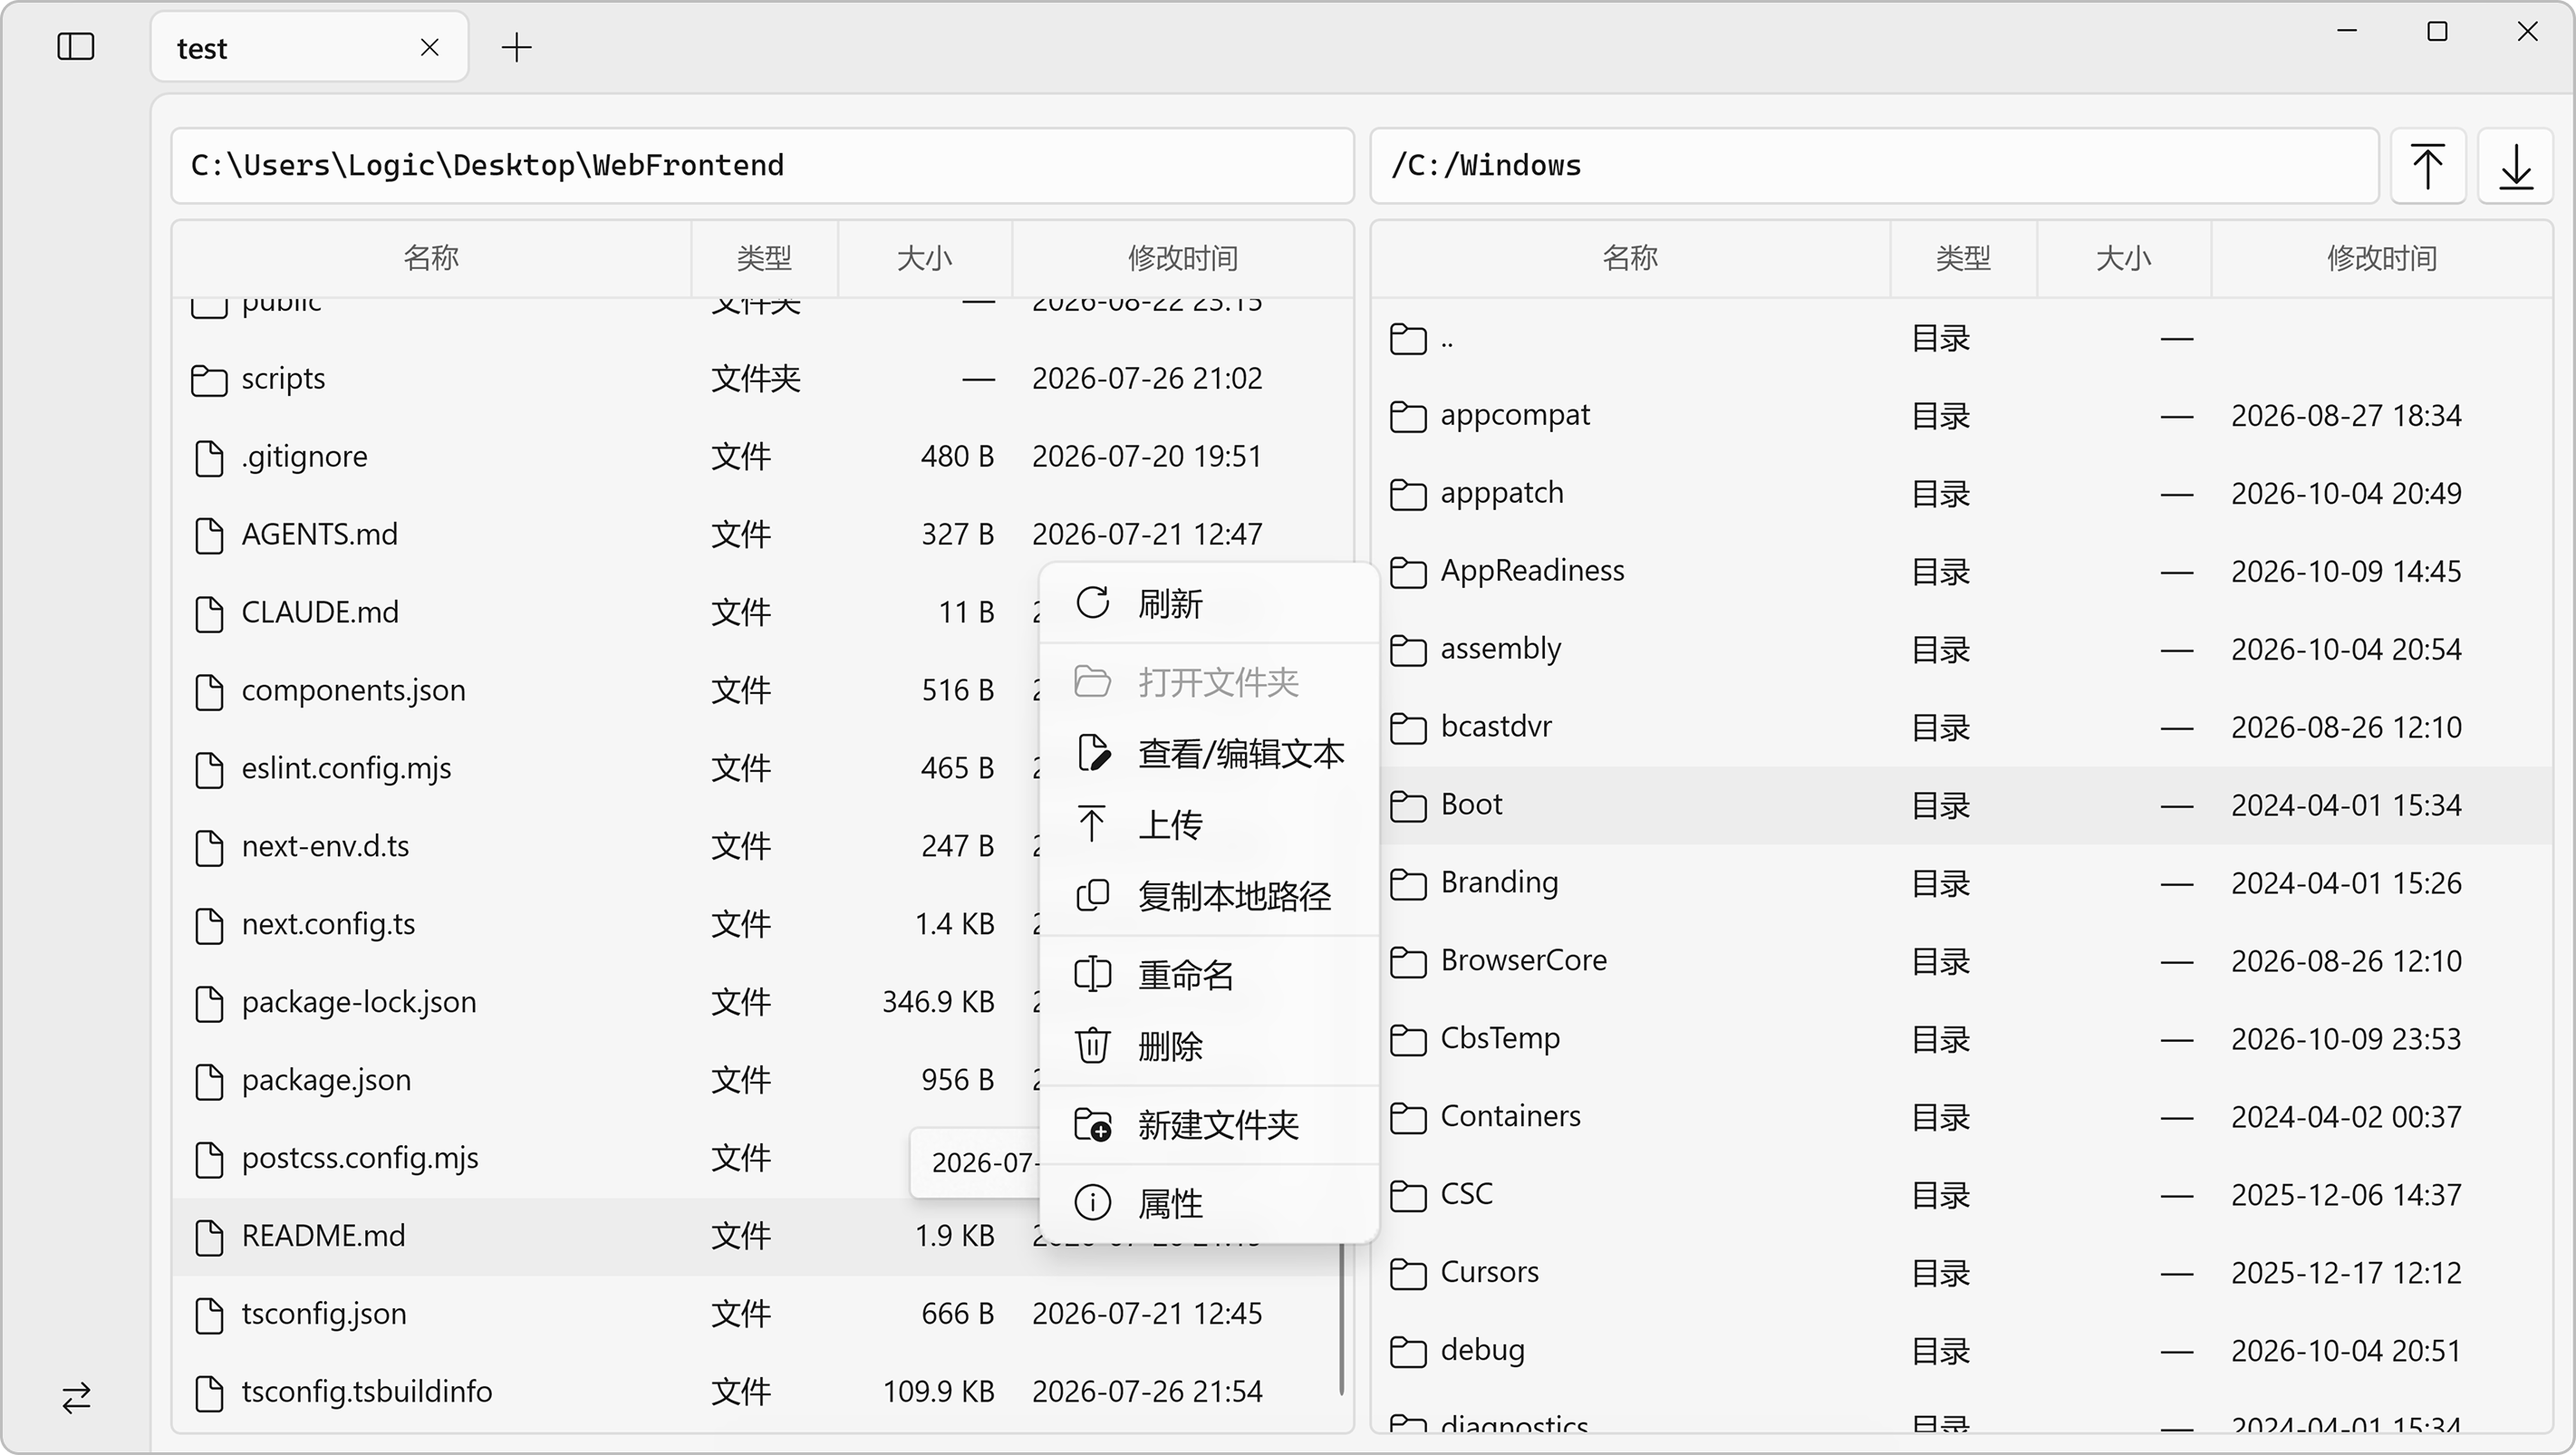
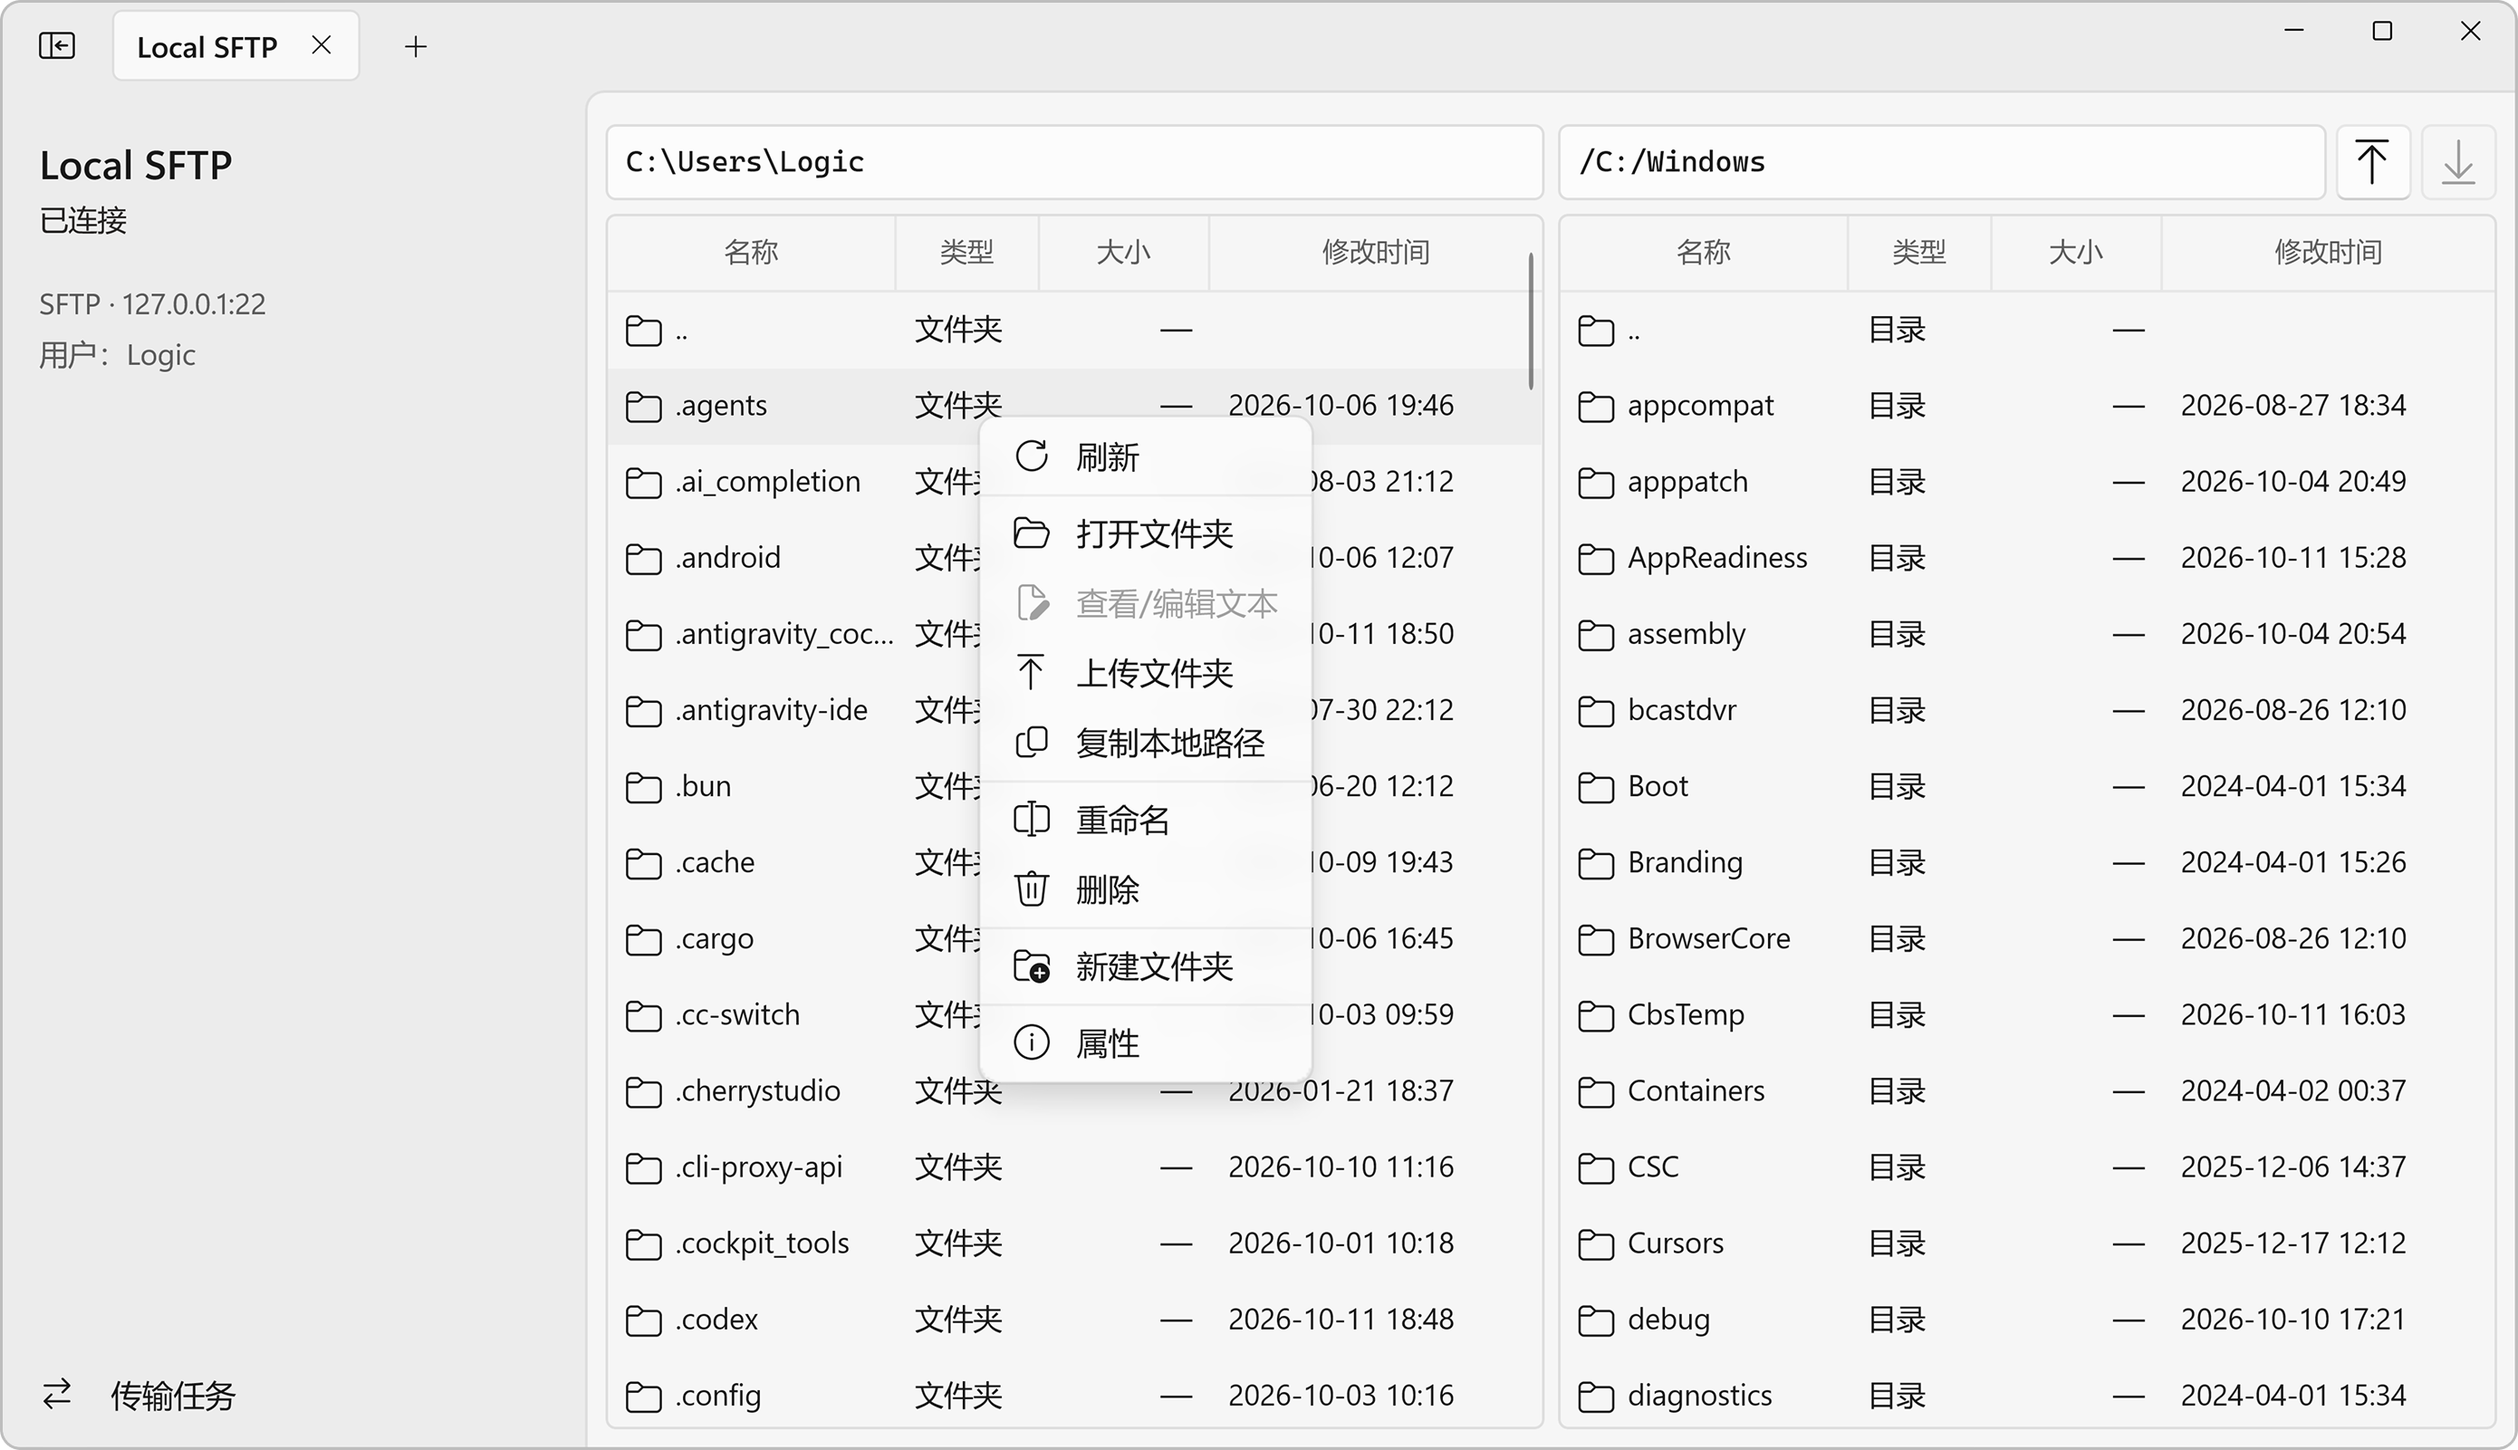
style: 更新窗口样式与阴影效果
优化窗口容器的阴影表现，移除不必要的圆角样式，适配不同场景的视觉效果，提升整体界面美观度

diff --git a/app/globals.css b/app/globals.css
@@ -79,7 +79,7 @@ p { text-wrap: pretty; }
 .scene-ambient { position: absolute; inset: -40px; z-index: -1; filter: blur(28px) saturate(.82); pointer-events: none; }
 .scene-ambient img { object-fit: cover; object-position: center; }
 .scene-hero { margin-top: 3.5rem; }
-.window-wrap { position: relative; width: 100%; max-width: 1080px; margin: auto; overflow: hidden; border-radius: 9px; box-shadow: 0 30px 64px -22px rgba(10,35,69,.42), 0 3px 12px rgba(10,35,69,.14); }
+.window-wrap { position: relative; width: 100%; max-width: 1080px; margin: auto; filter: drop-shadow(0 22px 28px rgba(10,35,69,.28)) drop-shadow(0 3px 6px rgba(10,35,69,.12)); }
 .product-image { display: block; width: 100%; height: auto; }
 .scene-editor .window-wrap { max-width: 860px; }
 
@@ -168,7 +168,6 @@ p { text-wrap: pretty; }
   .hero-meta { font-size: .65rem; }
   .scene-hero { margin-top: 2.5rem; }
   .scene { padding: 1rem; }
-  .window-wrap { border-radius: 5px; }
   .principles { grid-template-columns: 1fr; gap: 1.5rem; padding-top: 2.5rem; }
   .principle p { max-width: 100%; margin-top: .4rem; }
   .scene-row, .features-section, .faq-section { padding-top: 5rem; }
